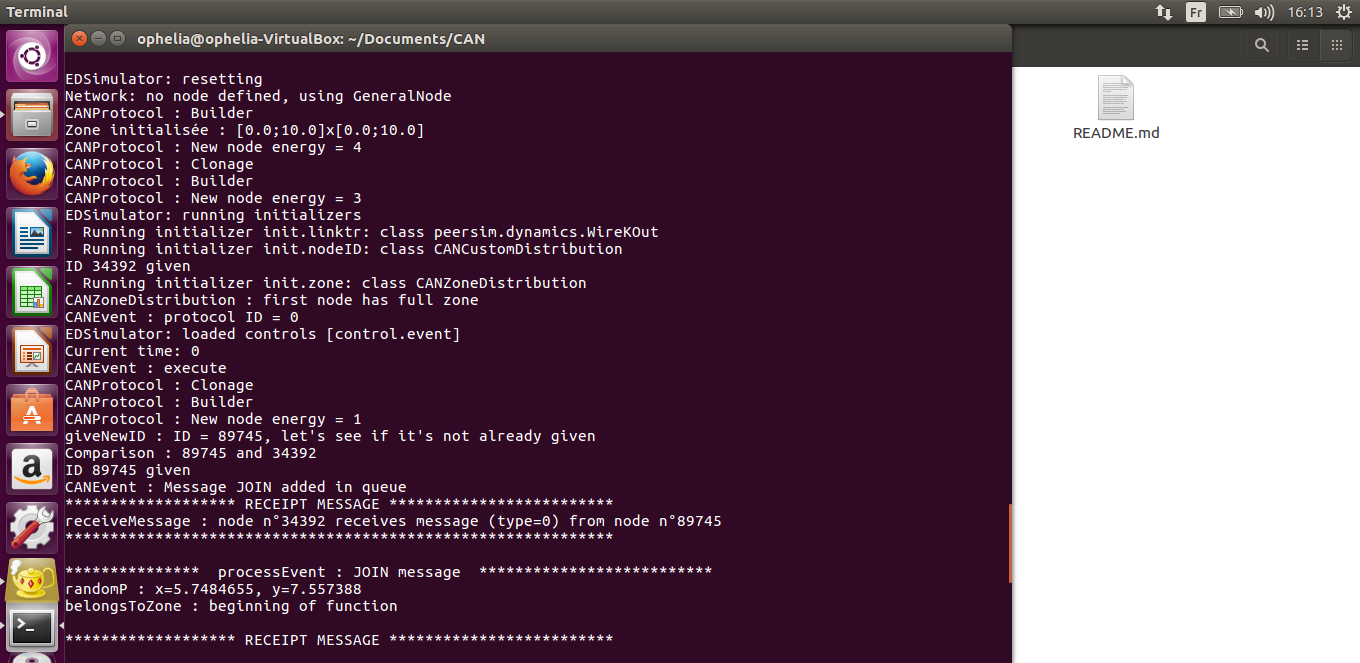
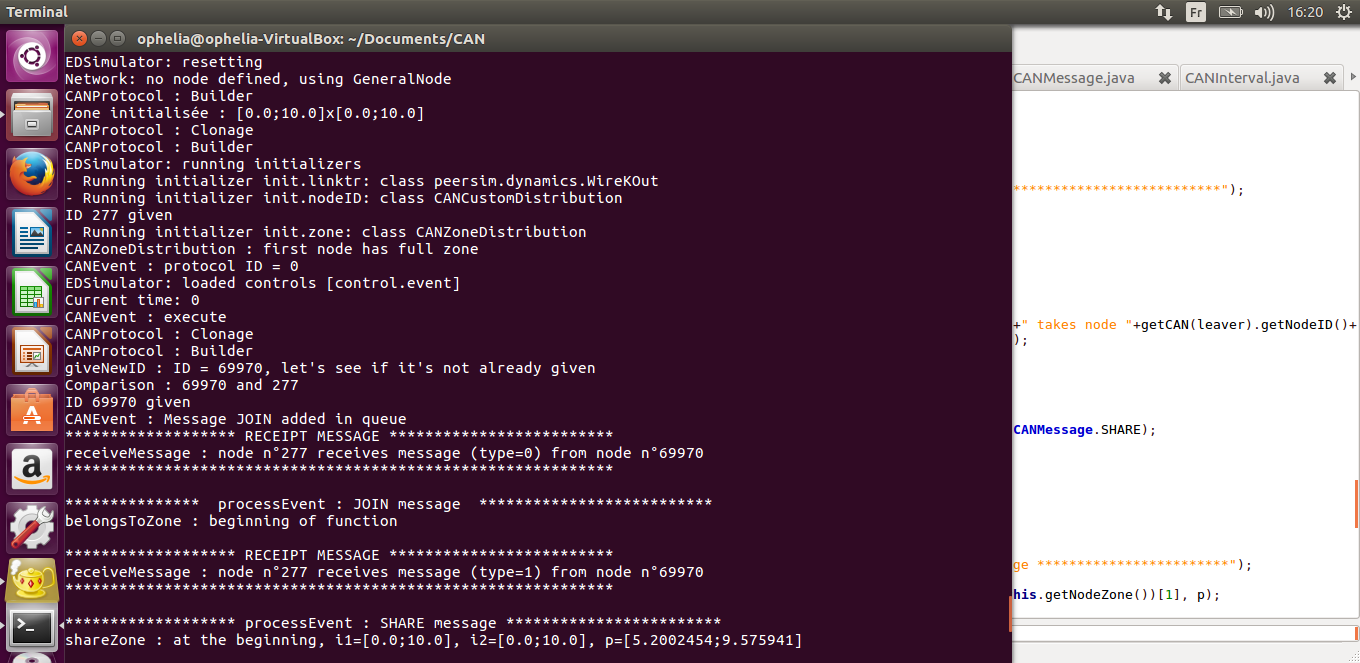
images simulation

diff --git a/src/peersim/CAN/CANProtocol.java b/src/peersim/CAN/CANProtocol.java
@@ -65,7 +65,7 @@ public class CANProtocol implements EDProtocol, Cloneable {
 		this.nodeZone = new CANInterval[2];
 		long energymax = Configuration.getLong(prefix + "." + PAR_ENERGY, energy);
 		this.energy = (long)(rnd.nextDouble()*energymax);
-		System.out.println("CANProtocol : New node energy = "+this.energy);
+		//System.out.println("CANProtocol : New node energy = "+this.energy);
 		
 	}
 	
@@ -104,7 +104,7 @@ public class CANProtocol implements EDProtocol, Cloneable {
 		float x = (float)(rnd.nextDouble()*max);
 		float y = (float)(rnd.nextDouble()*max);
 		CANInterval p = new CANInterval(x,y);
-		System.out.println("randomP : x="+p.getA()+", y="+p.getB());
+		//System.out.println("randomP : x="+p.getA()+", y="+p.getB());
 		return p;
 	}
 	
